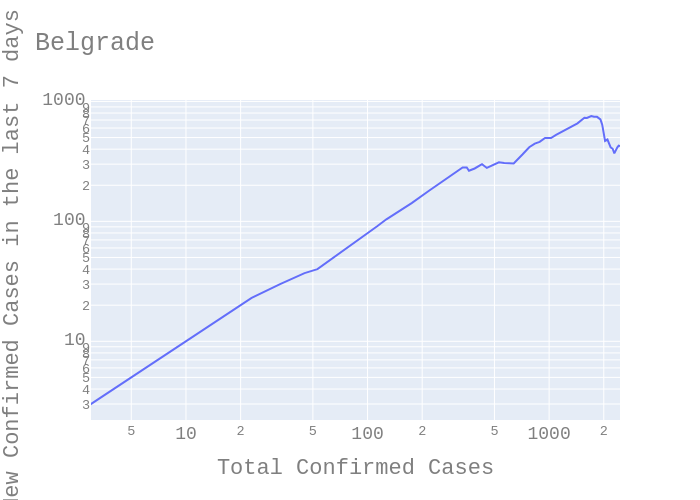
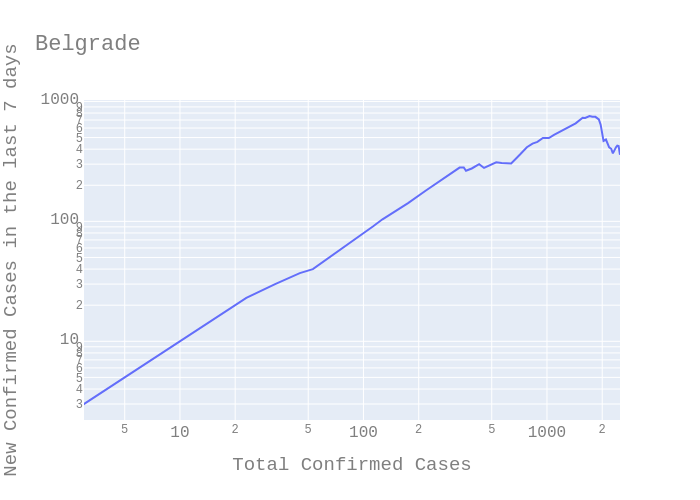
Daily update (4.5.2020.)

diff --git a/src/covid.py b/src/covid.py
@@ -67,7 +67,7 @@ def plot(x, y, title):
         title_text=title,
         font=dict(
             family='Courier New, monospace',
-            size=18,
+            size=16,
             color='#7f7f7f'
         )
     )
